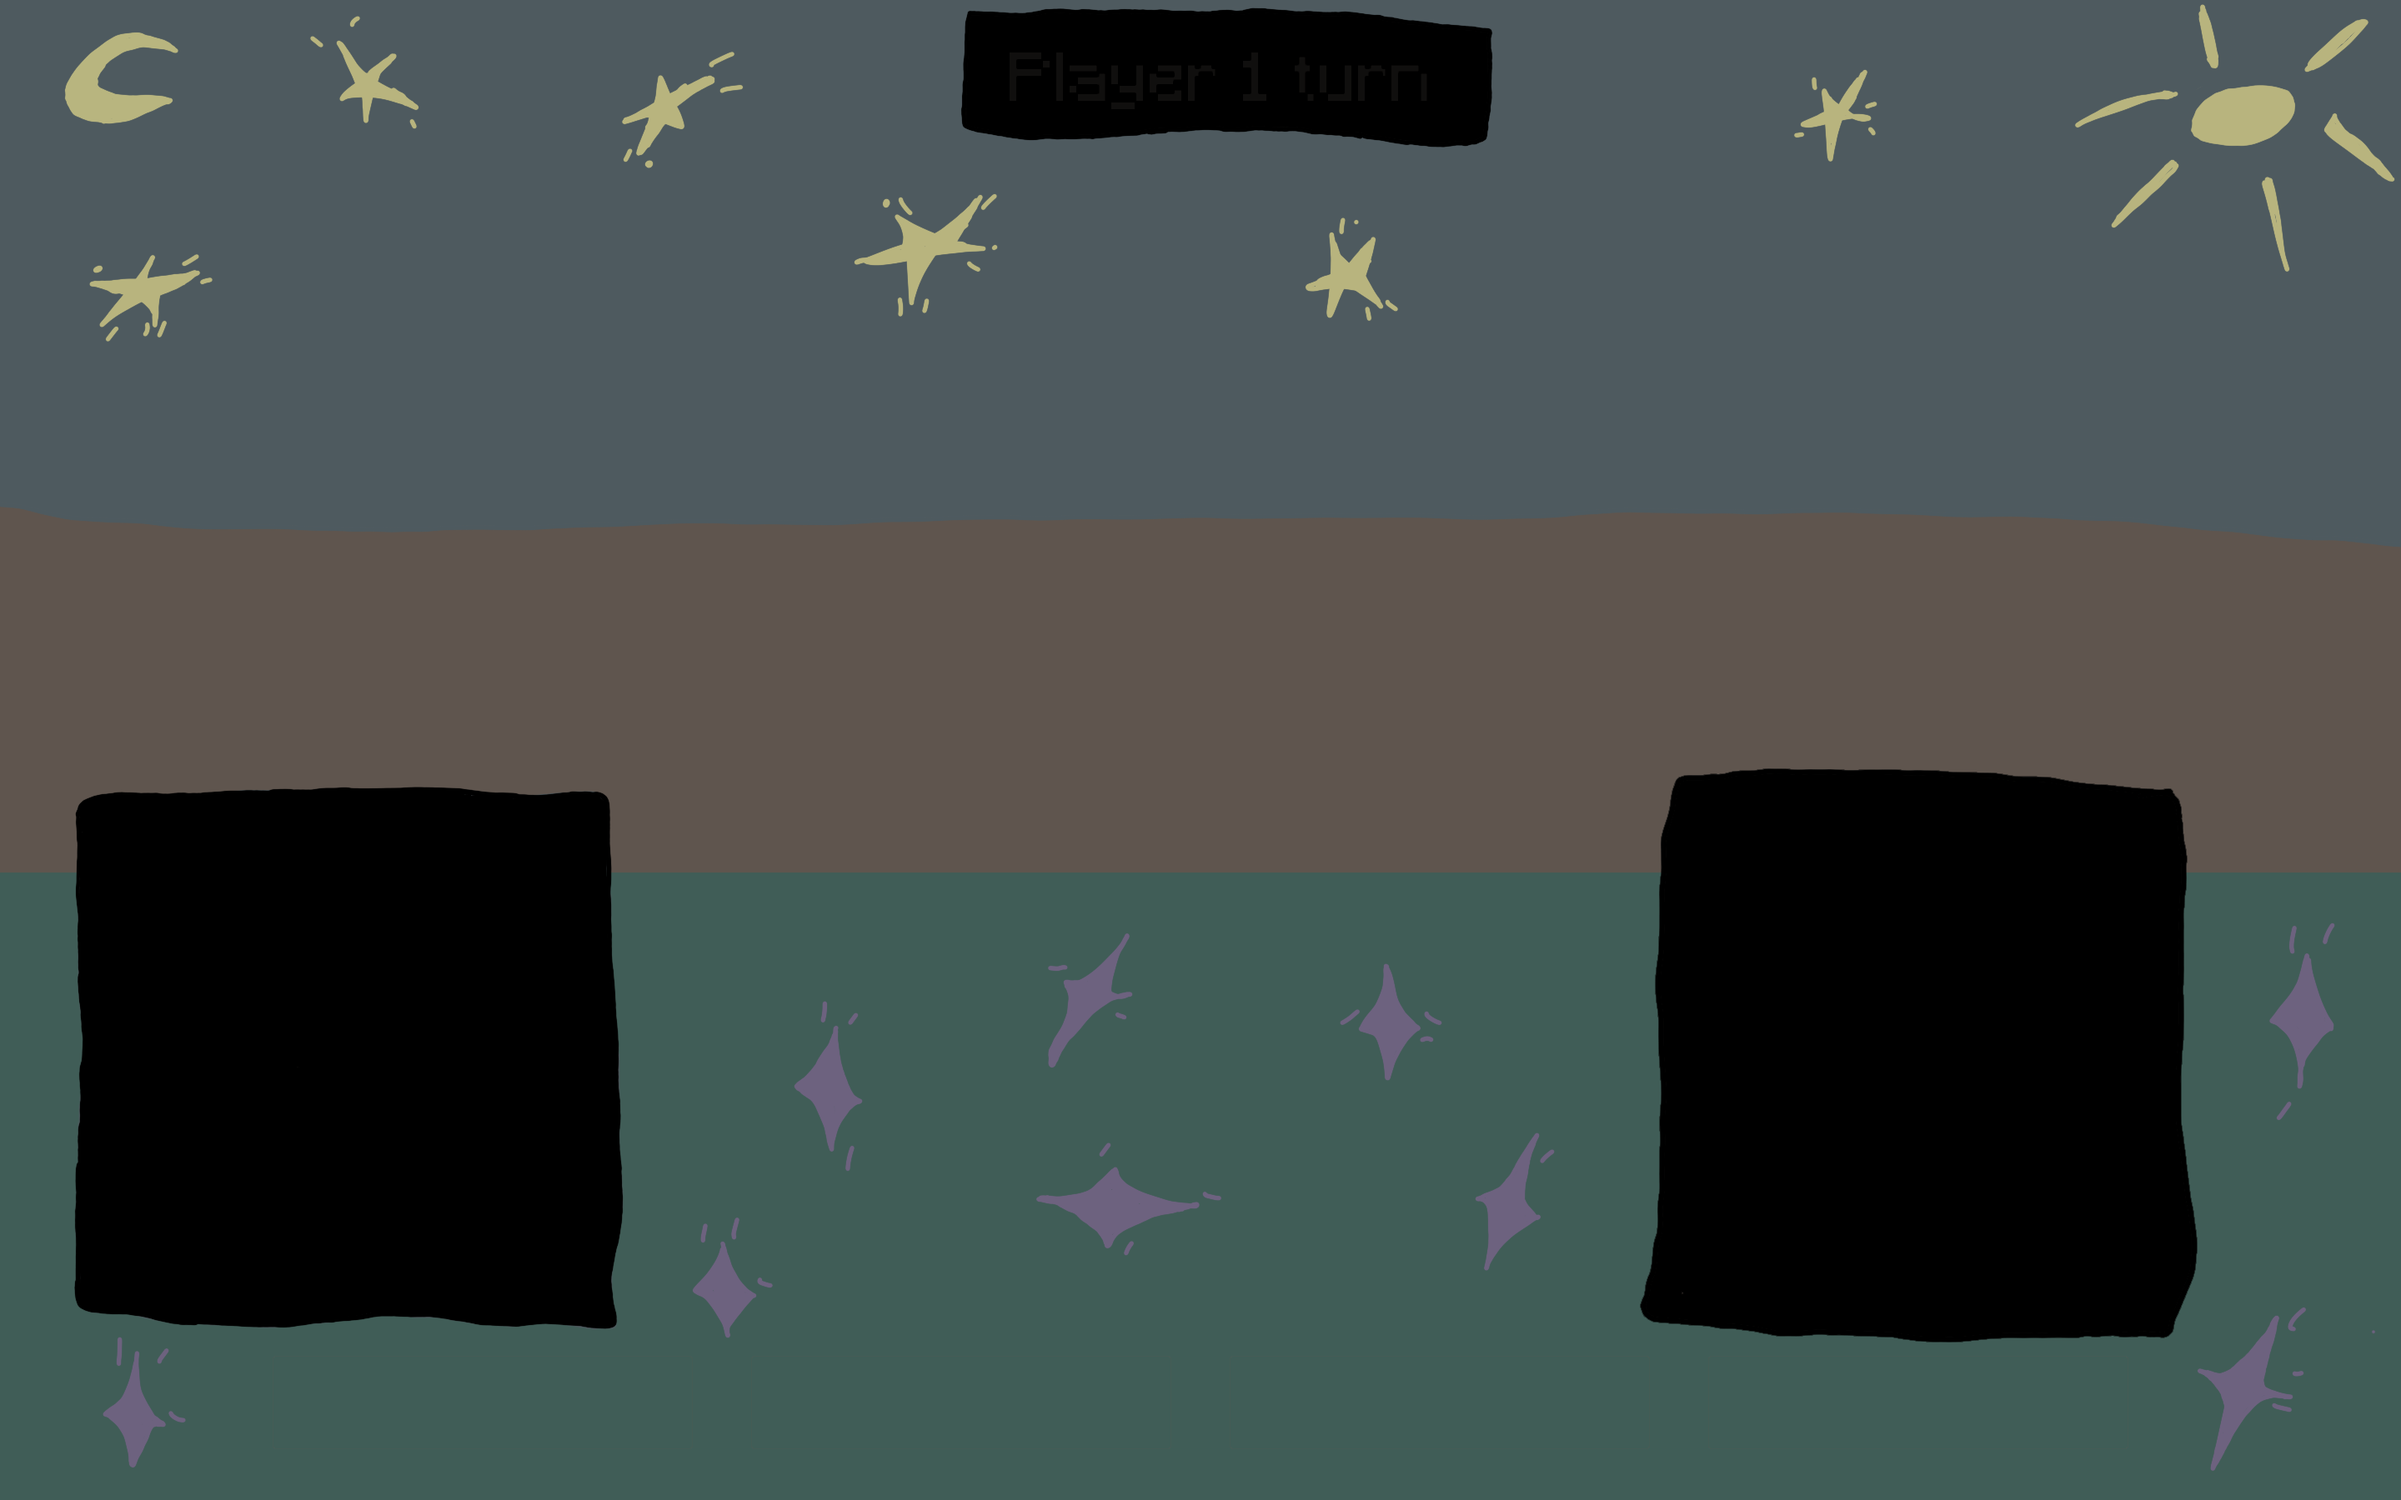
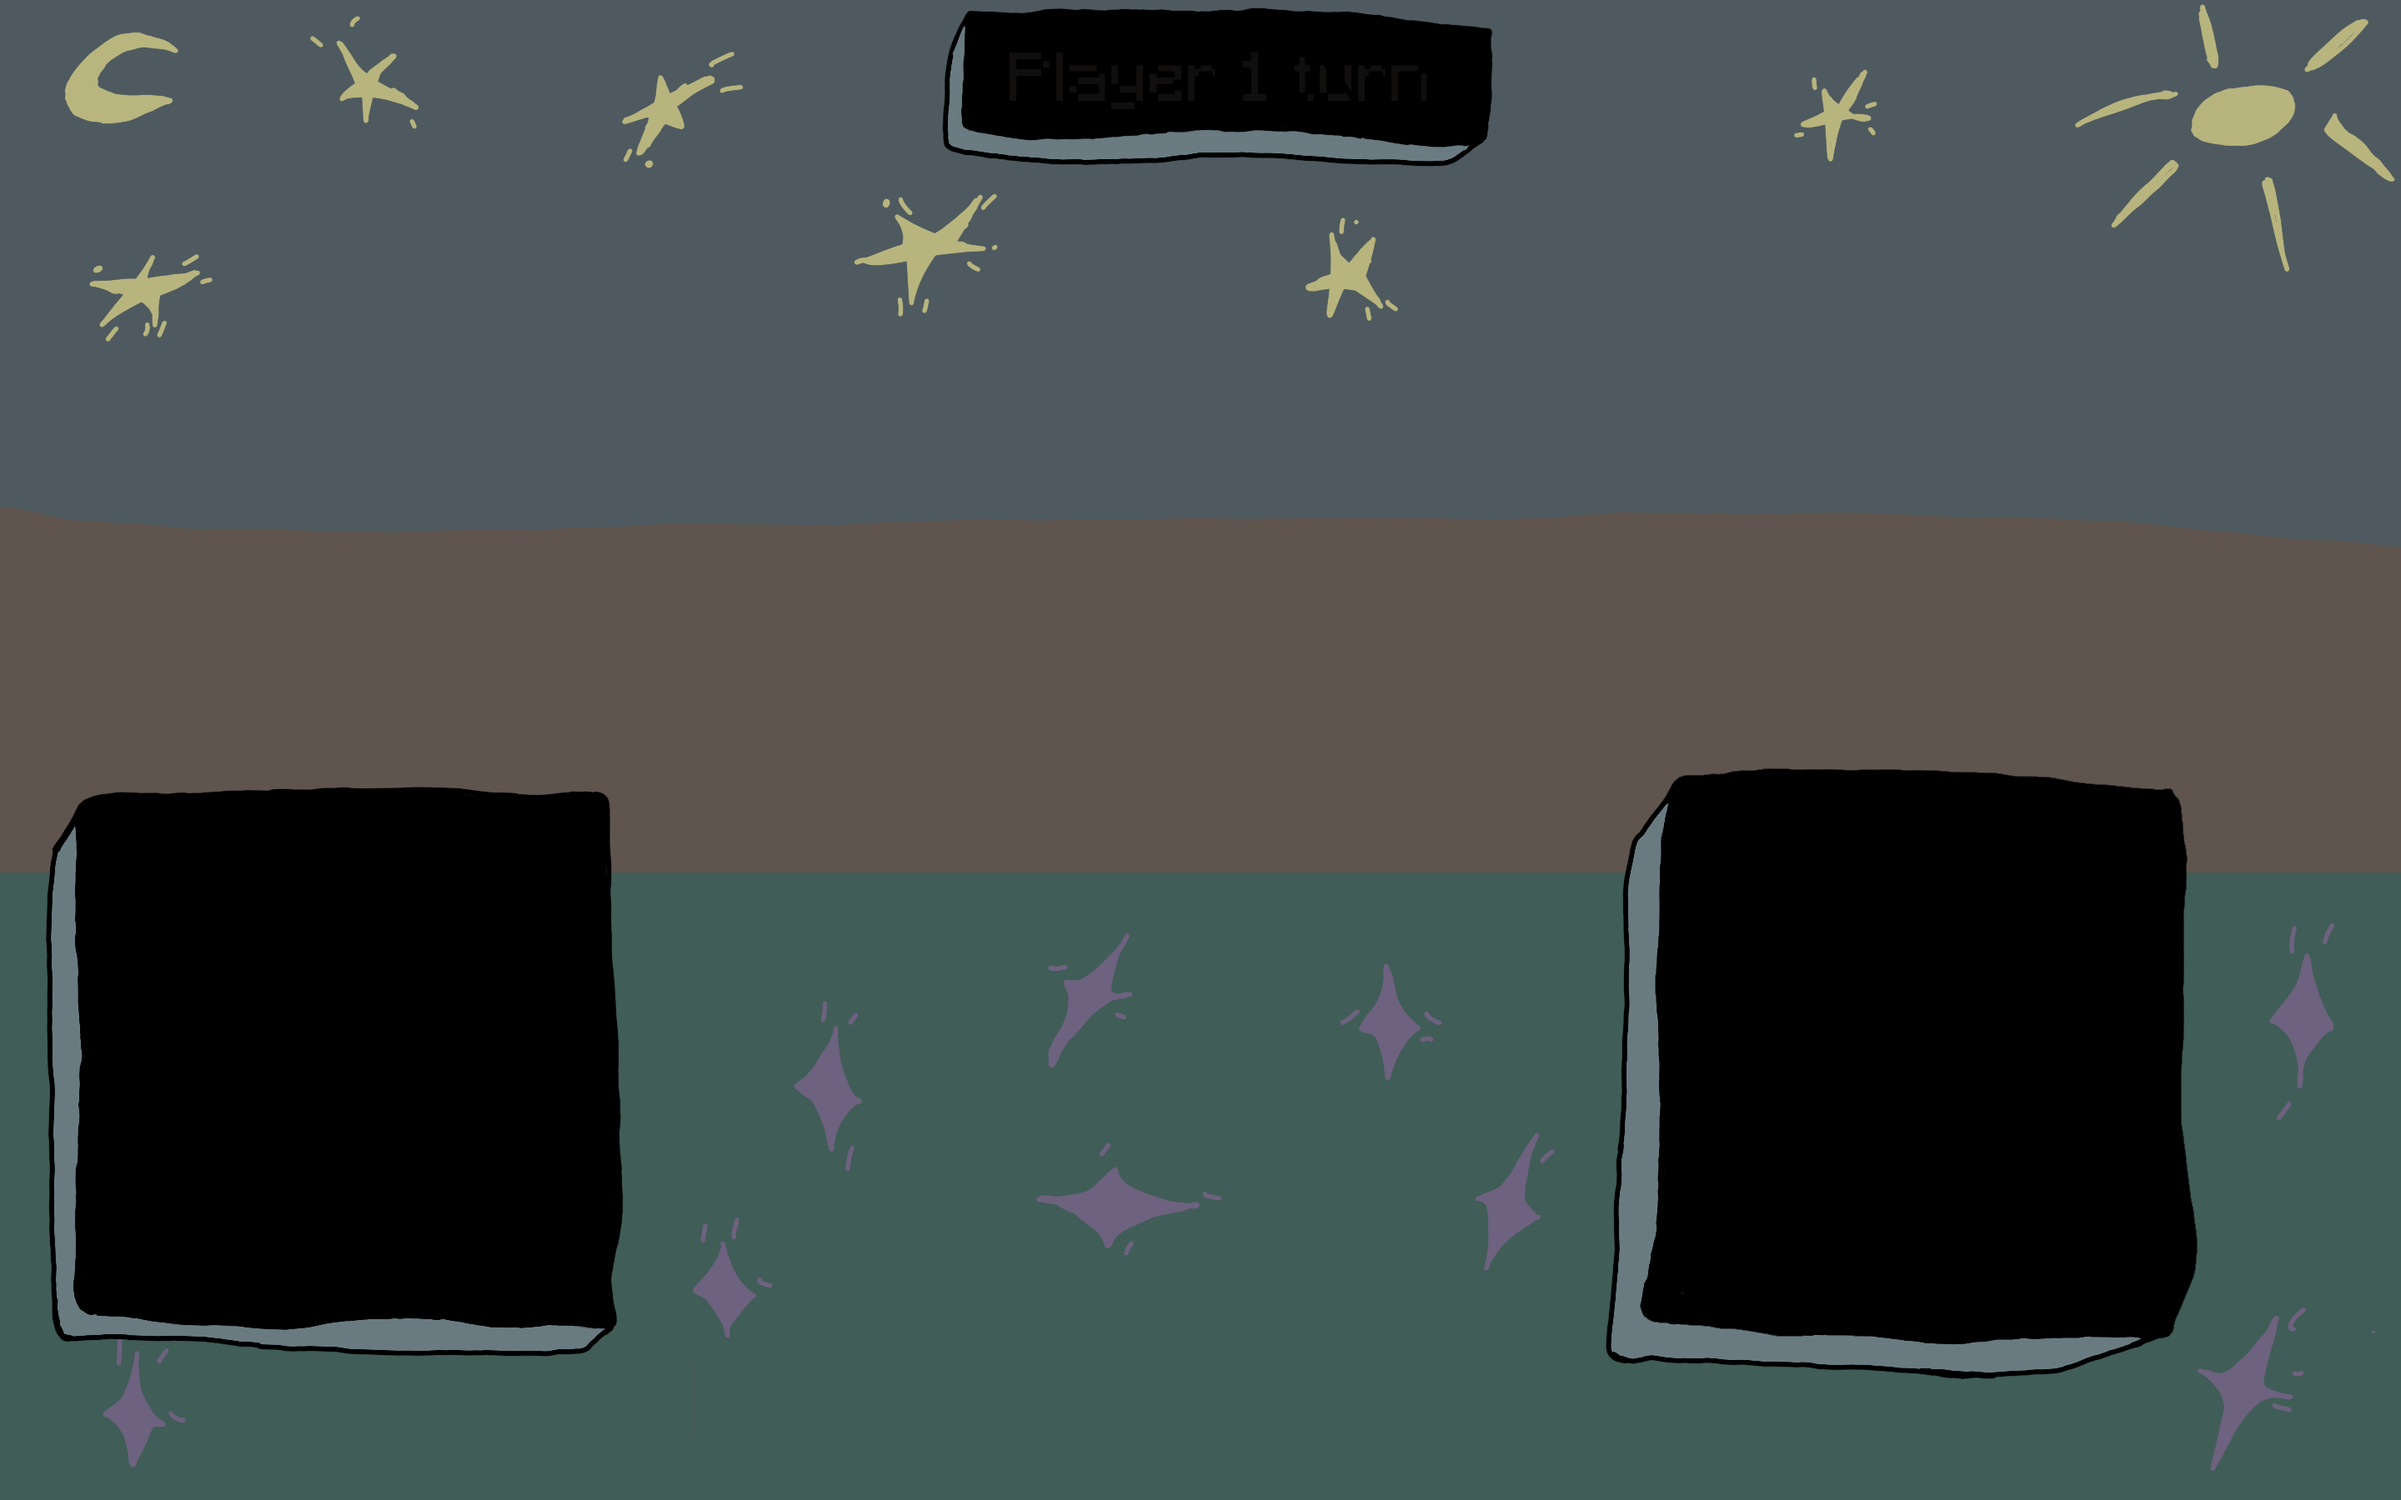
added moves and changed creatures stats

Changed region(s): [[0.6562, 0.5289, 0.9062, 0.9333], [0.0, 0.56, 0.25, 0.9022], [0.375, 0.0311, 0.625, 0.1244]]

diff --git a/source/moves.py b/source/moves.py
@@ -37,5 +37,24 @@ def perform_move(move_name, attacker, defender):
             attacker.status_effects.append({"type": "REGENERATION", "damage": 10, "turns_left": 5})
             return f"{attacker.name} casts regeneration"
 
+        case "SCARE":
+            if dodged(defender):
+                return f"{defender.name} is not scared"
+            defender.attack = max(1, defender.attack - 8)
+            return f"{attacker.name} scares {defender.name} (Attack Down!)"
+
+        case "DRAIN":
+            damage = int(attacker.attack * 0.2)
+            defender.hp -= damage
+            attacker.hp += damage
+            if attacker.hp > attacker.max_hp: attacker.hp = attacker.max_hp
+            return f"{attacker.name} drains {damage} HP from {defender.name}"
+
+        case "CURSE":
+            if dodged(defender):
+                return f"{defender.name} avoided the curse"
+            defender.defense -= 10
+            return f"{defender.name} is now cursed (Defense down!)"
+
         case _:
             return "default case"
